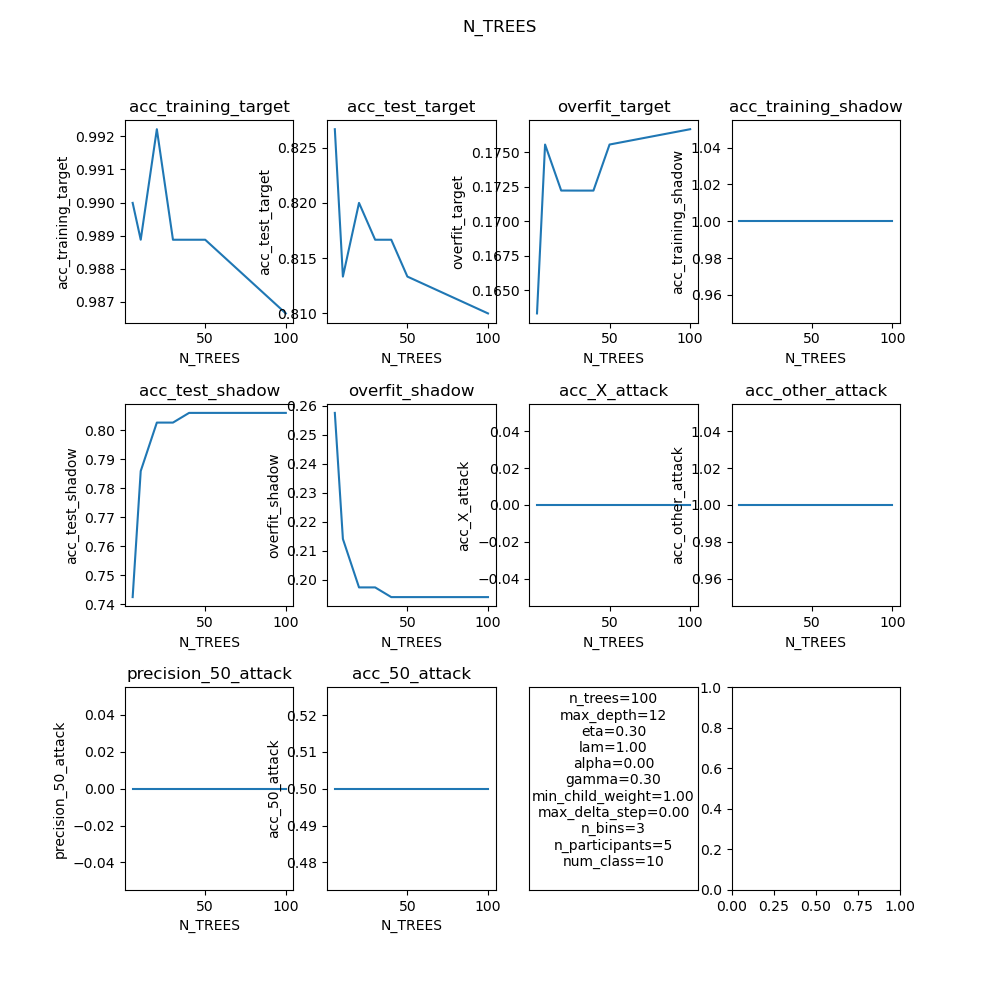
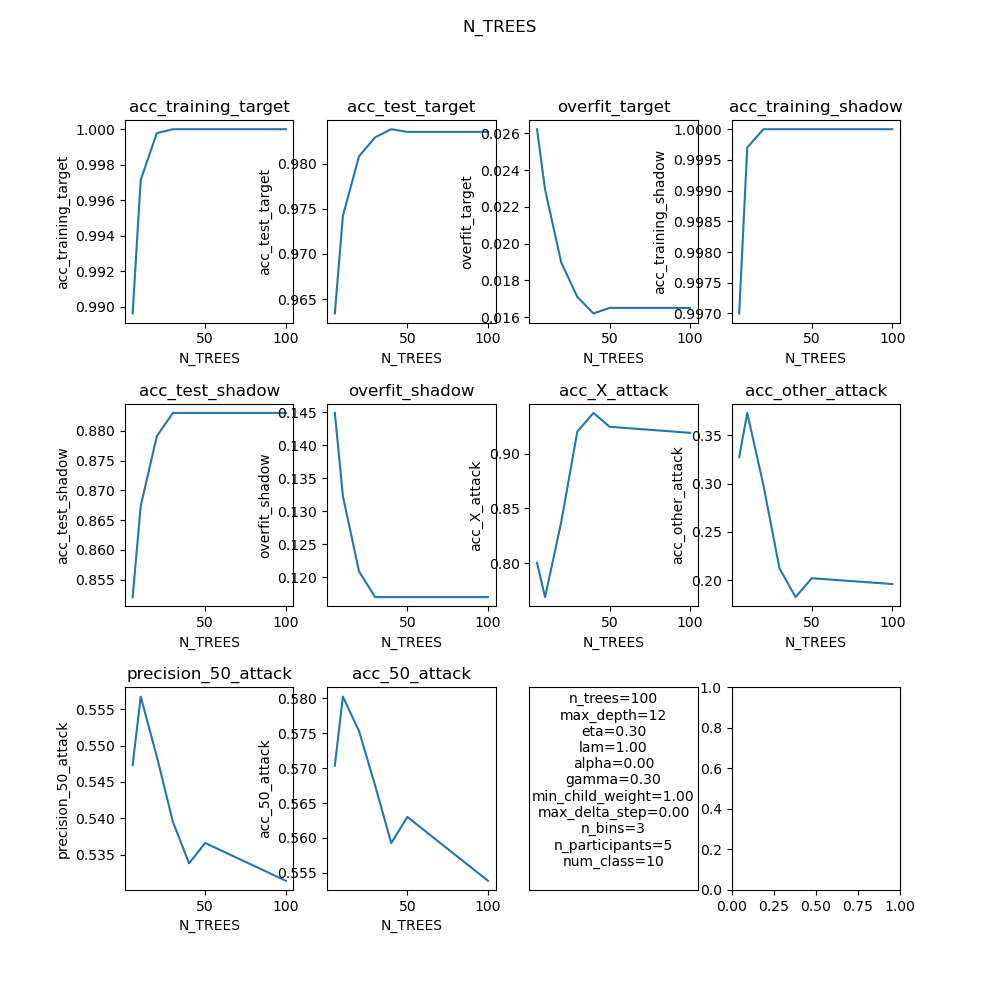
better plotting correct MNIST

diff --git a/XGPyBoost/python_pax/tests/membership_attack_MNIST.py b/XGPyBoost/python_pax/tests/membership_attack_MNIST.py
@@ -6,6 +6,7 @@ import pickle
 import xgboost as xgb
 from sklearn.tree import DecisionTreeClassifier
 from sklearn import datasets
+from keras.datasets import mnist
 
 import sys
 import os
@@ -40,14 +41,18 @@ def main():
     for N_TREES in [5, 10, 20, 30, 40, 50, 100]:
         params = Params(N_TREES, MAX_DEPTH, ETA, REG_LAMBDA, REG_ALPHA, GAMMA, MIN_CHILD_WEIGHT, eA = EA, n_bins=N_BINS, n_participants=N_PARTICIPANTS, num_class=10)
 
+        (train_X, train_y), (test_X, test_y) = mnist.load_data()
         digits = datasets.load_digits()
-        X = digits.images
-        X = X.reshape(1797, 8*8) # flatten
+        # X = digits.images
+        # X = X.reshape(1797, 8*8) # flatten
+        # y = digits.target
 
-        y = digits.target
+        X = np.array(train_X).reshape(train_X.shape[0], 28*28)
+        y = np.array(train_y)
+        shadow_fake = (np.array(test_X).reshape(test_X.shape[0], 28*28), np.array(test_y))
 
-        shadow_fake = (X[:SPLIT, :], y[:SPLIT])
-        X, y = X[SPLIT:, :], y[SPLIT:]
+        # shadow_fake = (X[:SPLIT, :], y[:SPLIT])
+        # X, y = X[SPLIT:, :], y[SPLIT:]
         splits = utils.data_to_histo(X)
         
         # target_model = MLPClassifier(hidden_layer_sizes=(20,10), activation='relu', solver='adam', learning_rate_init=0.01, max_iter=2000)
@@ -62,8 +67,12 @@ def main():
             target_model = pickle.load(open(TARGET_MODEL_NAME, "rb"))
         else:
             print("> creating target model as no pickle jar exists")
-            target_model = PAX(params)
-            target_model.fit(X_PAX, y_PAX, splits)
+            # target_model = PAX(params)
+            # target_model.fit(X_PAX, y_PAX, splits)
+            target_model = xgb.XGBClassifier(max_depth=MAX_DEPTH, tree_method='approx', objective="multi:softmax",
+                            learning_rate=ETA, n_estimators=N_TREES, gamma=GAMMA, reg_alpha=REG_ALPHA, reg_lambda=REG_LAMBDA)
+            target_model.fit(X,y)
+            # target_model.fit(X_PAX, y_PAX, splits)
             pickle.dump(target_model, open( TARGET_MODEL_NAME, "wb"))
 
         # shadow_model = MLPClassifier(hidden_layer_sizes=(16,), activation='relu', solver='adam', learning_rate_init=0.01, max_iter=1000)

diff --git a/XGPyBoost/python_pax/tests/membership_helpers.py b/XGPyBoost/python_pax/tests/membership_helpers.py
@@ -18,7 +18,7 @@ def plot_histo(X):
     plt.show()
     pass
 
-def plot_data(data: np.array, labels, destination= 'plot.png', name='Sample Text'):
+def plot_data(data: np.array, labels, destination= 'plot.png', name='Sample Text', suptext="Sample Text"):
     """will plot the different variables against the first column of data (the value tested against)
 
     Args:
@@ -30,7 +30,7 @@ def plot_data(data: np.array, labels, destination= 'plot.png', name='Sample Text
     amount_of_plots = len(data[0])
     nrows = 3
     ncols = (amount_of_plots//3) + 1
-    fig, axs = plt.subplots(nrows, ncols, figsize=(10,10))
+    fig, axs = plt.subplots(nrows, ncols, figsize=(20,20))
     plt.subplots_adjust(hspace=0.4)
 
     x = data[:, 0]
@@ -40,8 +40,14 @@ def plot_data(data: np.array, labels, destination= 'plot.png', name='Sample Text
     for i, y in enumerate(y_all):
         ax= axs[i//ncols, i%ncols]
         ax.plot(x, y)
+        ax.grid(True)
+        ax.set_xticks(x)
+        ax.set_yticks(y)
         ax.set_xlabel(labels[0])
+        ax.set_xticklabels(x, rotation=45, ha='right')
         ax.set_ylabel(labels[i+1])
+        # for i in range(len(x)):
+        #     ax.text(x[i], y[i], f'({x[i]}, {y[i]})', ha='center', va='bottom')
         ax.set_title(labels[i+1])
 
     ax = axs[(i+1)//ncols, (i+1)%ncols]
@@ -55,8 +61,8 @@ def plot_data(data: np.array, labels, destination= 'plot.png', name='Sample Text
     if nrows*ncols > amount_of_plots:
         for i in range(amount_of_plots, nrows, ncols):
             fig.delaxes[i//ncols, i%ncols]
-    # plt.tight_layout()
-    fig.suptitle(labels[0])
+    plt.tight_layout()
+    fig.suptitle(suptext)
     # fig.text(ncols, nrows, 'testtesttest')
     plt.savefig(destination)
     # plt.title("test2")

diff --git a/XGPyBoost/python_pax/SimplePAXtest.py b/XGPyBoost/python_pax/SimplePAXtest.py
@@ -39,10 +39,10 @@ params = Params(n_trees=N_TREES, max_depth=MAX_DEPTH, eta=ETA, lam=REG_LAMBDA,
                 alpha=REG_ALPHA, gamma=GAMMA, min_child_weight=MIN_CHILD_WEIGHT, max_delta_step=0, objective=softprob )
 def main():
     # test_cifar10()
-    test_MNIST()
+    # test_MNIST()
     # test_airline()
     # test_iris()
-    # test_purchase_100()
+    test_purchase_100()
     # test_make_classification()
 
 def test_MNIST():
@@ -180,8 +180,8 @@ def test_airline():
 
 def test_purchase_100():
     pass
-    MAX_DEPTH = 12
-    N_TREES = 200
+    MAX_DEPTH = 8
+    N_TREES = 30
     ETA = 0.1
     GAMMA = 0.3 #std=0.3
     MIN_CHILD_WEIGHT = 1 # std=1
@@ -194,12 +194,12 @@ def test_purchase_100():
     # data = np.load('/home/hacker/Documents/datasets/purchase100_2.npz')
     data = np.load('/home/jaap/Documents/tmp/purchase-100/purchase100.npz')
 
-    data = np.load('/data/BioGrid/meerhofj/purchase100_2.npz')
+    # data = np.load('/data/BioGrid/meerhofj/purchase100_2.npz')
     print("> getting purchase100 dataset... ")
     print("> got dataset!")
-    features = data['features']
-    labels = data['labels']
-    X_train, X_test, y_train, y_test = train_test_split(features,labels, test_size=0.30)
+    features = data['features'][:20_000]
+    labels = data['labels'][:20_000]
+    X_train, X_test, y_train, y_test = train_test_split(features,labels, test_size=0.20)
     myparams = Params(n_trees=N_TREES, max_depth=MAX_DEPTH, eta=ETA, lam=REG_LAMBDA,
                 alpha=REG_ALPHA, gamma=GAMMA, min_child_weight=MIN_CHILD_WEIGHT, max_delta_step=0, objective=softprob )
     run_both(X_train, X_test, y_train, y_test, myparams)

diff --git a/XGPyBoost/python_pax/tests/tmp3.py b/XGPyBoost/python_pax/tests/tmp3.py
@@ -1,16 +1,27 @@
-
+import xgboost as xgb
 import numpy as np
 
+from membership_helpers import *
 
-def getDNA():
-    import pandas as pd
-    df=pd.read_csv("/home/jaap/Documents/JaapCloud/SchoolCloud/Master Thesis/Database/dna.csv")
-    print(df.head())
-    labels = df.columns
-    shape = df.shape
-    y = df["class"]
-    X = df.drop(['class'], axis=1)
+data = pickle.load(open("fulldata_MNIST_n_trees.pkl", "rb"))
+# data = np.array([[-1,1,2,3,4,5], [-2, 2,3,4,5,6]])
+# labels = ["N", "param1", "param2", "param3", "param4", "param5"]
+labels = ["acc_training_target", "acc_test_target", "overfit_target", 
+                "acc_training_shadow", "acc_test_shadow", "overfit_shadow", 
+                "acc_X_attack", "acc_other_attack", 
+                "precision_50_attack", "acc_50_attack"]
+labels = ["N_TREES"] + labels
+# params = Params(10, 10, 0.1, 1, 1, 1, 1, eA = 0.2, n_bins=10, n_participants=7, num_class=5)
+MAX_DEPTH = 12
+N_TREES = 50
+ETA = 0.3
+GAMMA = 0.3 #std=0.3
+MIN_CHILD_WEIGHT = 1 # std=1
+REG_ALPHA=0 #std =0
+REG_LAMBDA= 1 #std =1
+N_PARTICIPANTS = 5
+N_BINS = 3
+EA = 1/N_BINS
+params = Params(N_TREES, MAX_DEPTH, ETA, REG_LAMBDA, REG_ALPHA, GAMMA, MIN_CHILD_WEIGHT, eA = EA, n_bins=N_BINS, n_participants=N_PARTICIPANTS, num_class=10)
 
-    X = np.array(X)
-    y = np.array(y)
-    return X, y
+plot_data(np.array(data), labels, name=params.prettytext(), suptext="MNIST N_trees")

diff --git a/XGPyBoost/python_pax/treemodel.py b/XGPyBoost/python_pax/treemodel.py
@@ -35,7 +35,7 @@ class TreeNode:
         w = self.calc_weight(G, H, params)
 
         # this is 2* the terms from equation 7 to avoid the slower 1/2 division (copying from c++ source)
-        gain = -(2*G*w + (H+params.lam)*(w**2))
+        gain = -(2*G*w + (H+params.lam)*(w**2)) # hmm maybe
         return gain - 2*params.alpha * abs(w)
 
     def calc_split_gain(self, G, H, G_l, G_r, H_l, H_r, params):
